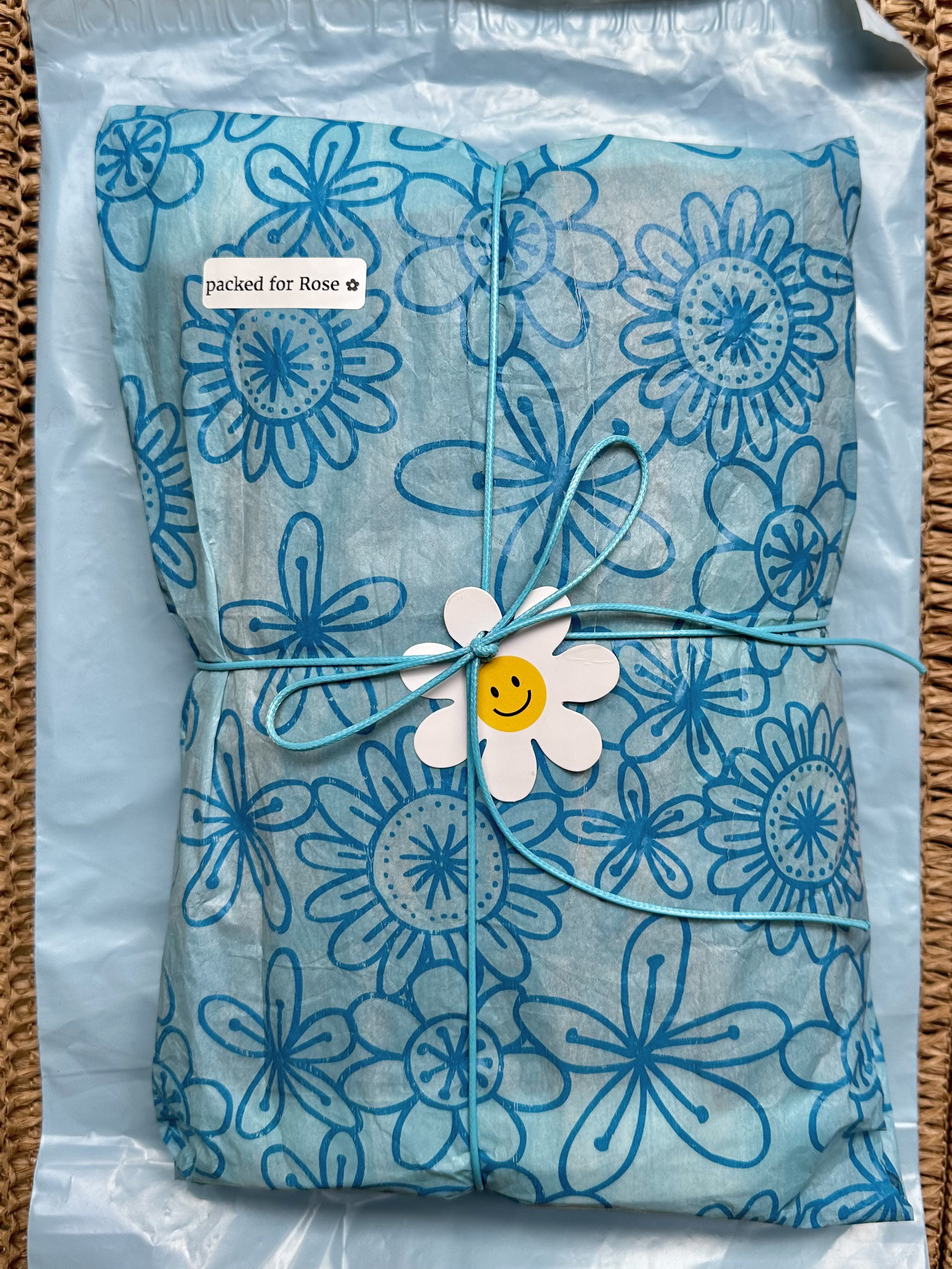
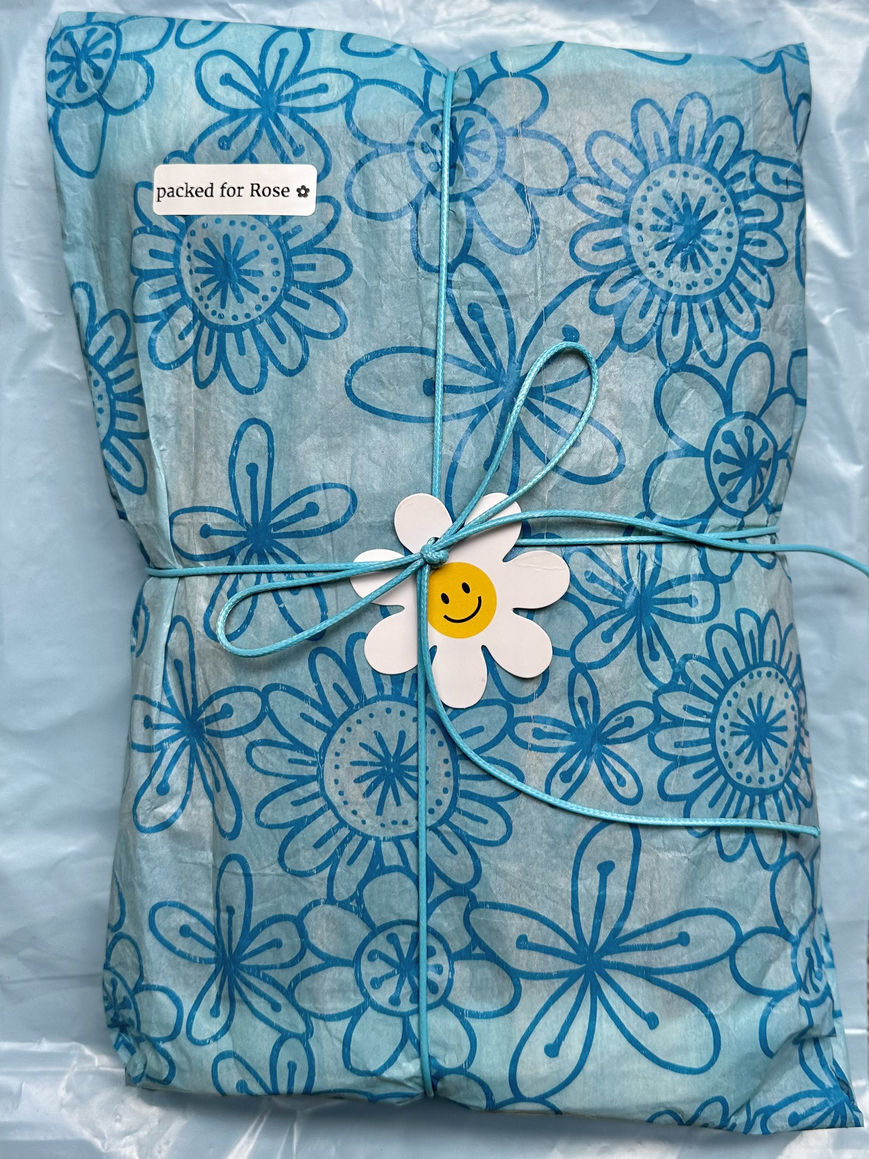
Replaced feature image

diff --git a/components/home/Aftercare.tsx b/components/home/Aftercare.tsx
@@ -51,7 +51,7 @@ export default function Aftercare() {
 
             <figure className="relative min-h-0 md:translate-y-5">
               <Image
-                src="/images/aftercare/packaging/aftercare_lace.jpeg"
+                src="/images/aftercare/packaging/aftercare_blue.jpeg"
                 alt="Hand-wrapped parcel finished with lace"
                 fill
                 sizes="(max-width: 767px) 40vw, 35vw"
